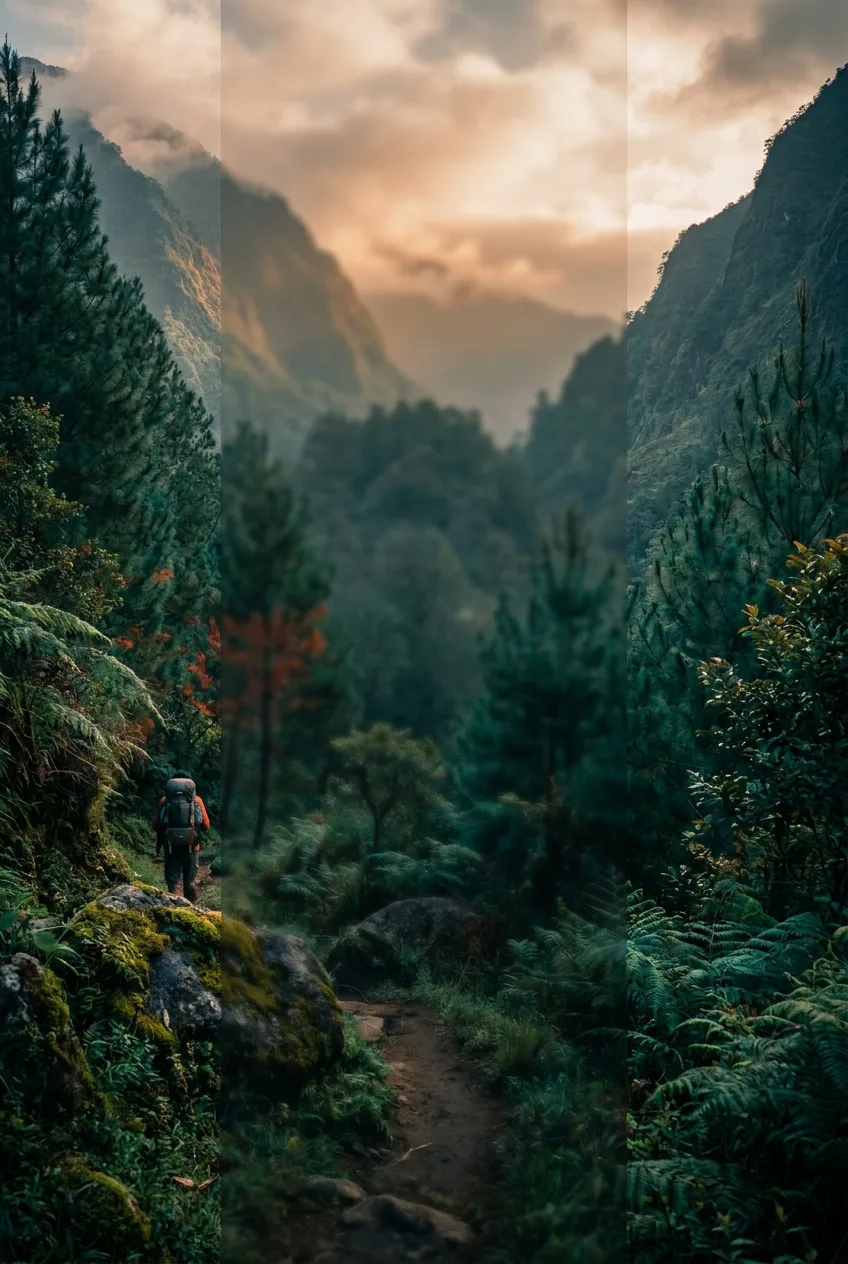
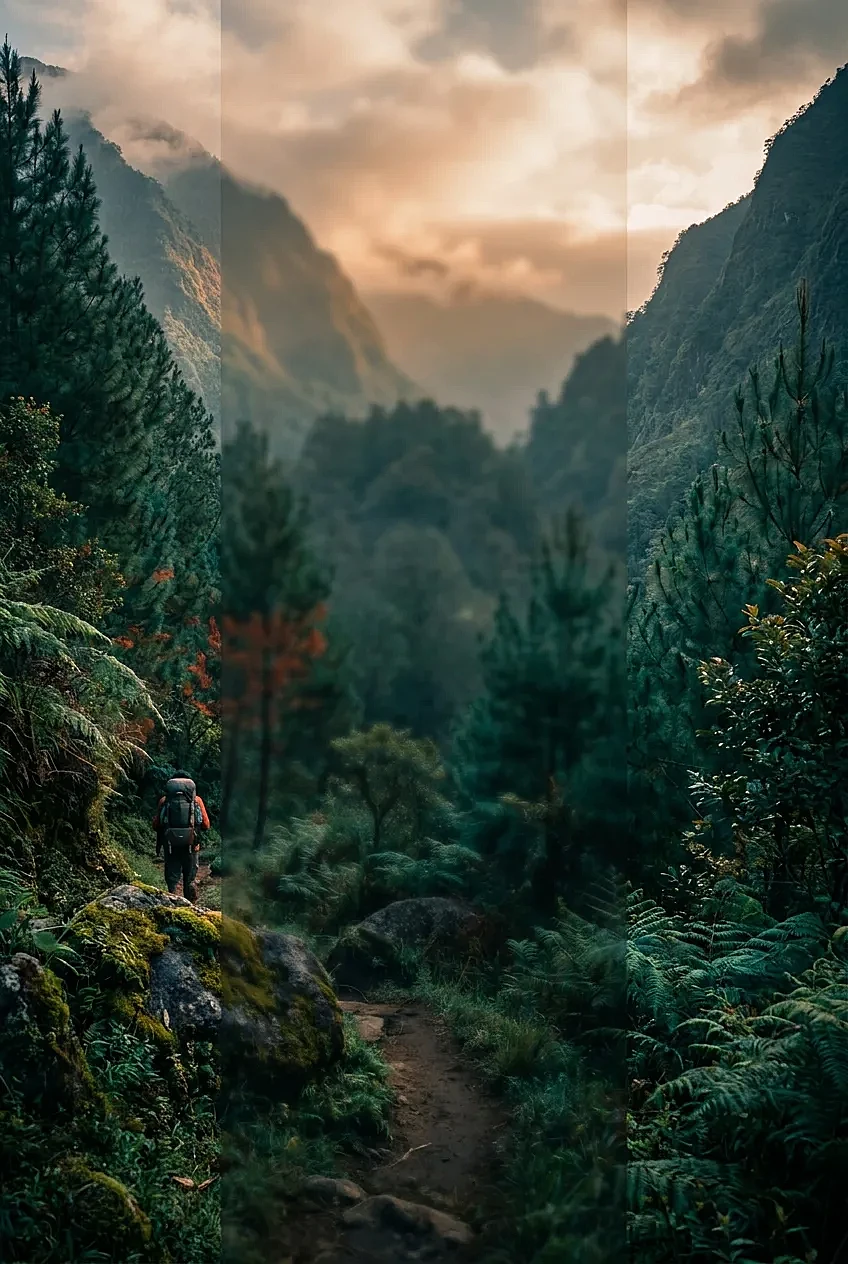
Add files via upload

diff --git a/rehat/blocks.html b/rehat/blocks.html
@@ -35,20 +35,23 @@ html,body{overflow-x:hidden}@media(max-width:760px){.app{width:100%;max-width:no
 .soundbar{position:static;justify-content:flex-start;margin:16px auto 0;width:240px}.sound{min-width:0;width:46px;height:46px;padding:0;border-radius:50%;font-size:0;display:grid;place-items:center}.sound:before{content:'🔊';font-size:19px}.sound.off:before{content:'🔇'}.adventure-art{position:relative;width:min(360px,calc(100% - 28px));height:112px;margin:14px auto 0;border-radius:12px;overflow:hidden;background:linear-gradient(180deg,#173750 0%,#254b52 48%,#122c32 49%,#0c2227 100%);box-shadow:inset 0 0 0 2px #ffffff2a,inset 0 -20px 30px #07171a88,0 5px 0 #8b2525}.adventure-art:before{content:'';position:absolute;inset:0;background:linear-gradient(145deg,transparent 0 39%,#d7eef055 40% 41%,transparent 42%),linear-gradient(35deg,transparent 0 43%,#8fd3df55 44% 45%,transparent 46%),linear-gradient(155deg,transparent 0 55%,#102d38 56% 68%,transparent 69%);clip-path:polygon(0 100%,0 53%,17% 68%,31% 39%,47% 72%,63% 48%,76% 70%,89% 42%,100% 60%,100% 100%)}.adventure-art:after{content:'♠  ♠  ♠  ♠  ♠';position:absolute;left:20px;bottom:12px;color:#a6d69b88;font-size:18px;letter-spacing:10px}.art-compass{position:absolute;right:20px;top:18px;width:44px;height:44px;border:2px solid #d8c18a99;border-radius:50%;display:grid;place-items:center;color:#f4d476;font-size:24px;box-shadow:inset 0 0 0 4px #ffffff14}.art-label{position:absolute;left:18px;top:18px;color:#f5e4b0;font:700 10px monospace;letter-spacing:.16em;text-shadow:0 1px #000}.note{margin-top:14px}@media(max-width:760px){.soundbar{width:calc(100% - 34px);margin-top:14px}.sound{width:42px;height:42px}.adventure-art{height:92px;margin-top:12px;width:calc(100% - 28px)}.art-label{top:14px}.art-compass{top:12px;right:14px;width:38px;height:38px}.note{display:none}}
 
 /* Scenic console surround: generated nature photography fills the side bays. */
-.gamecard{background-image:linear-gradient(90deg,#f4eee455,#ece4d533),url('nature-bg.webp');background-size:cover;background-position:center 48%;}.adventure-art{display:none}.soundbar{width:100%;max-width:370px;justify-content:flex-start;margin:16px auto 0}.sound{margin-left:0}@media(max-width:760px){.gamecard{background-position:center center}.soundbar{width:100%;max-width:330px;justify-content:flex-start;margin-top:14px}.sound{margin-left:0}}
+.gamecard{background-image:url('nature-bg.webp');background-size:cover;background-position:center 48%;}.adventure-art{display:none}.soundbar{width:100%;max-width:370px;justify-content:flex-start;margin:16px auto 0}.sound{margin-left:0}@media(max-width:760px){.gamecard{background-position:center center}.soundbar{width:100%;max-width:330px;justify-content:flex-start;margin-top:14px}.sound{margin-left:0}}
 
 /* Button integrity pass: every control gets a solid molded-plastic face. */
 .controls .ctrl{position:relative;z-index:10;opacity:1!important;background-color:#e5ddd1!important;background-image:radial-gradient(circle at 30% 18%,#fffdf8 0,#e9e2d8 48%,#b9aa9d 100%)!important;backdrop-filter:none!important;-webkit-backdrop-filter:none!important;border:2px solid #806d60!important;color:#3a2b26!important;text-shadow:0 1px #fff}.controls .ctrl:hover,.controls .ctrl:active{background-color:#e5ddd1!important;background-image:radial-gradient(circle at 30% 18%,#fffdf8 0,#e9e2d8 48%,#b9aa9d 100%)!important}.controls .ctrl:nth-child(5){min-width:0}
 
 /* Root-frame pass: a realistic tree-root bezel surrounds the active console. */
-.gamecard{position:relative;isolation:isolate;overflow:hidden;background-image:linear-gradient(90deg,#f4eee422,#ece4d511),url('nature-bg.webp');background-size:cover;background-position:center 48%}.root-frame{position:absolute;z-index:1;inset:0;width:100%;height:100%;object-fit:cover;pointer-events:none;opacity:.82;mix-blend-mode:multiply}.gamebar{position:relative;z-index:7}.gamecard canvas{position:relative;z-index:5}.controls{position:relative;z-index:8;grid-template-areas:'left rotate right' '. down drop'}.controls .ctrl{box-sizing:border-box;overflow:hidden;width:100%;min-width:0}.controls .ctrl:nth-child(1){grid-area:left}.controls .ctrl:nth-child(2){grid-area:rotate}.controls .ctrl:nth-child(3){grid-area:right}.controls .ctrl:nth-child(4){grid-area:down;width:100%}.controls .ctrl:nth-child(5){grid-area:drop;width:100%;min-width:0}.soundbar{position:relative;z-index:8}.board-logo{z-index:6}
+.gamecard{position:relative;isolation:isolate;overflow:hidden;background-image:url('nature-bg.webp');background-size:cover;background-position:center 48%}.root-frame{position:absolute;z-index:1;inset:0;width:100%;height:100%;object-fit:cover;pointer-events:none;opacity:.82;mix-blend-mode:multiply}.gamebar{position:relative;z-index:7}.gamecard canvas{position:relative;z-index:5}.controls{position:relative;z-index:8;grid-template-areas:'left rotate right' '. down drop'}.controls .ctrl{box-sizing:border-box;overflow:hidden;width:100%;min-width:0}.controls .ctrl:nth-child(1){grid-area:left}.controls .ctrl:nth-child(2){grid-area:rotate}.controls .ctrl:nth-child(3){grid-area:right}.controls .ctrl:nth-child(4){grid-area:down;width:100%}.controls .ctrl:nth-child(5){grid-area:drop;width:100%;min-width:0}.soundbar{position:relative;z-index:8}.board-logo{z-index:6}
 
 /* Lock the hardware control deck to a predictable 3-column console layout. */
 .controls{display:grid!important;width:370px;max-width:calc(100% - 24px);grid-template-columns:1fr 1.25fr 1fr!important;grid-template-rows:60px 60px!important;grid-template-areas:none!important;gap:12px!important}.controls .ctrl{grid-area:auto!important;display:block;width:100%!important;min-width:0!important;overflow:hidden!important;white-space:nowrap!important}.controls .ctrl:nth-child(1){grid-column:1;grid-row:1}.controls .ctrl:nth-child(2){grid-column:2;grid-row:1}.controls .ctrl:nth-child(3){grid-column:3;grid-row:1}.controls .ctrl:nth-child(4){grid-column:2;grid-row:2}.controls .ctrl:nth-child(5){grid-column:3;grid-row:2}@media(max-width:760px){.controls{width:330px;max-width:calc(100vw - 34px);grid-template-columns:1fr 1.25fr 1fr!important;grid-template-rows:54px 54px!important;gap:8px!important}}
 
 /* Corrected semantic frame: roots belong around the Tetris board, while nature covers the console body. */
-.root-frame{inset:auto;left:50%;top:72px;transform:translateX(-50%);width:300px;height:540px;object-fit:fill;opacity:.94;mix-blend-mode:normal;z-index:4}.gamecard{background-image:linear-gradient(90deg,#f4eee422,#ece4d511),url('nature-bg.webp');background-size:cover;background-position:center 48%}.gamecard canvas{z-index:5}.board-logo{z-index:6}@media(max-width:760px){.root-frame{top:68px;width:calc(100vw - 42px);height:calc((100vw - 42px)*1.49);max-width:330px;max-height:520px}}
-</style></head><body><main class="app"><a class="back" href="index.html">← Kembali ke Rehat</a><header class="top"><div class="brand"><img class="logo" src="logo-rcscbs.jpg" alt="Logo RCS.CBS HOPE"><div><div class="eyebrow">GAME 06 • RCS.CBS</div><h1>HOPE BLOCKS</h1></div></div><div class="score"><div class="pill"><b id="score">0</b><span>poin</span></div><div class="pill"><b id="level">1</b><span>level</span></div></div></header><section class="layout"><article class="gamecard"><img class="root-frame" src="root-frame.png" alt="" aria-hidden="true"><img class="board-logo" src="logo-rcscbs.jpg" alt="" aria-hidden="true"><div class="gamebar"><b>SUSUN BLOKNYA</b><small id="lines">0 garis</small></div><canvas id="game" width="240" height="480" aria-label="Papan permainan HOPE BLOCKS"></canvas><div class="controls"><button class="ctrl" data-act="left" aria-label="Geser kiri">←</button><button class="ctrl" data-act="rotate" aria-label="Putar">PUTAR</button><button class="ctrl" data-act="right" aria-label="Geser kanan">→</button><button class="ctrl wide" data-act="down">▼ Turun</button><button class="ctrl wide" data-act="drop">JATUHKAN</button></div><div class="soundbar"><button class="sound" id="soundBtn" aria-label="Nyalakan atau matikan suara">🔊</button></div><div class="adventure-art" aria-hidden="true"><span class="art-compass">✦</span><span class="art-label">JELAJAH • RAWAT • JAGA</span></div><p class="help">Keyboard: ← → geser · ↑ putar · ↓ turun · Spasi jatuhkan</p></article><aside class="artcard"><div class="hud hud-score" id="hudScore">0</div><div class="hud hud-level" id="hudLevel">1</div><div class="hud hud-lines" id="hudLines">0</div><button class="hotspot hs-hold" data-act="hold" aria-label="Hold balok"></button><button class="hotspot hs-next" data-act="next" aria-label="Lihat balok berikutnya"></button><button class="hotspot hs-rotate" data-act="rotate" aria-label="Putar balok"></button><button class="hotspot hs-left" data-act="left" aria-label="Geser kiri"></button><button class="hotspot hs-right" data-act="right" aria-label="Geser kanan"></button><button class="hotspot hs-soft" data-act="down" aria-label="Soft drop"></button><button class="hotspot hs-hard" data-act="drop" aria-label="Hard drop"></button><div class="artcopy"><img class="hero-logo" src="logo-rcscbs.jpg" alt="Logo RCS.CBS HOPE"><span class="tag">RCS.CBS HOPE</span><h2>HOPE<br><em>BLOCKS</em></h2><p class="console-sub">ARCADE TETRIS • EDITION 01</p><div class="console-readout"><span>STATUS</span><b>READY TO PLAY</b></div><div class="tips"><span>INSERT HOPE</span><span>BUILD YOUR LINE</span></div></div></aside></section><p class="note">Game tersimpan ringan di browser. Pecahkan baris, naikkan level, dan pecahkan rekor sendiri.</p></main><script>
+.root-frame{inset:auto;left:50%;top:72px;transform:translateX(-50%);width:300px;height:540px;object-fit:fill;opacity:.94;mix-blend-mode:normal;z-index:4}.gamecard{background-image:url('nature-bg.webp');background-size:cover;background-position:center 48%}.gamecard canvas{z-index:5}.board-logo{z-index:6}@media(max-width:760px){.root-frame{top:68px;width:calc(100vw - 42px);height:calc((100vw - 42px)*1.49);max-width:330px;max-height:520px}}
+
+/* Final clean nature console: no root overlay, crisp full-body wilderness background. */
+.root-frame{display:none!important}.gamecard{background-image:url('nature-bg.webp')!important;background-size:cover;background-position:center 48%;background-blend-mode:normal}
+</style></head><body><main class="app"><a class="back" href="index.html">← Kembali ke Rehat</a><header class="top"><div class="brand"><img class="logo" src="logo-rcscbs.jpg" alt="Logo RCS.CBS HOPE"><div><div class="eyebrow">GAME 06 • RCS.CBS</div><h1>HOPE BLOCKS</h1></div></div><div class="score"><div class="pill"><b id="score">0</b><span>poin</span></div><div class="pill"><b id="level">1</b><span>level</span></div></div></header><section class="layout"><article class="gamecard"><img class="board-logo" src="logo-rcscbs.jpg" alt="" aria-hidden="true"><div class="gamebar"><b>SUSUN BLOKNYA</b><small id="lines">0 garis</small></div><canvas id="game" width="240" height="480" aria-label="Papan permainan HOPE BLOCKS"></canvas><div class="controls"><button class="ctrl" data-act="left" aria-label="Geser kiri">←</button><button class="ctrl" data-act="rotate" aria-label="Putar">PUTAR</button><button class="ctrl" data-act="right" aria-label="Geser kanan">→</button><button class="ctrl wide" data-act="down">▼ Turun</button><button class="ctrl wide" data-act="drop">JATUHKAN</button></div><div class="soundbar"><button class="sound" id="soundBtn" aria-label="Nyalakan atau matikan suara">🔊</button></div><div class="adventure-art" aria-hidden="true"><span class="art-compass">✦</span><span class="art-label">JELAJAH • RAWAT • JAGA</span></div><p class="help">Keyboard: ← → geser · ↑ putar · ↓ turun · Spasi jatuhkan</p></article><aside class="artcard"><div class="hud hud-score" id="hudScore">0</div><div class="hud hud-level" id="hudLevel">1</div><div class="hud hud-lines" id="hudLines">0</div><button class="hotspot hs-hold" data-act="hold" aria-label="Hold balok"></button><button class="hotspot hs-next" data-act="next" aria-label="Lihat balok berikutnya"></button><button class="hotspot hs-rotate" data-act="rotate" aria-label="Putar balok"></button><button class="hotspot hs-left" data-act="left" aria-label="Geser kiri"></button><button class="hotspot hs-right" data-act="right" aria-label="Geser kanan"></button><button class="hotspot hs-soft" data-act="down" aria-label="Soft drop"></button><button class="hotspot hs-hard" data-act="drop" aria-label="Hard drop"></button><div class="artcopy"><img class="hero-logo" src="logo-rcscbs.jpg" alt="Logo RCS.CBS HOPE"><span class="tag">RCS.CBS HOPE</span><h2>HOPE<br><em>BLOCKS</em></h2><p class="console-sub">ARCADE TETRIS • EDITION 01</p><div class="console-readout"><span>STATUS</span><b>READY TO PLAY</b></div><div class="tips"><span>INSERT HOPE</span><span>BUILD YOUR LINE</span></div></div></aside></section><p class="note">Game tersimpan ringan di browser. Pecahkan baris, naikkan level, dan pecahkan rekor sendiri.</p></main><script>
 let soundOn=true,audioCtx;const soundBtn=document.querySelector('#soundBtn');function tone(freq=440,dur=.08,type='sine'){if(!soundOn)return;audioCtx??=new (window.AudioContext||window.webkitAudioContext)();const o=audioCtx.createOscillator(),g=audioCtx.createGain();o.type=type;o.frequency.value=freq;g.gain.setValueAtTime(.045,audioCtx.currentTime);g.gain.exponentialRampToValueAtTime(.001,audioCtx.currentTime+dur);o.connect(g).connect(audioCtx.destination);o.start();o.stop(audioCtx.currentTime+dur)}function say(text){if(!soundOn||!('speechSynthesis' in window))return;window.speechSynthesis.cancel();const u=new SpeechSynthesisUtterance(text);u.lang='id-ID';u.rate=1.12;u.pitch=1.05;u.volume=.8;window.speechSynthesis.speak(u)}soundBtn.onclick=()=>{soundOn=!soundOn;soundBtn.textContent=soundOn?'🔊':'🔇';soundBtn.classList.toggle('off',!soundOn);if(soundOn){tone(660,.08);say('Suara aktif')}};const c=document.querySelector('#game'),x=c.getContext('2d'),COLS=10,ROWS=20,S=24,colors=['#47a7cf','#f2b735','#b34bcb','#5fae65','#e56546','#477bc1','#e2a347'];let grid=Array.from({length:ROWS},()=>Array(COLS).fill(0)),piece,nextPiece,holdPiece=null,holdUsed=false,score=0,lines=0,level=1,over=false,last=0,drop=700;
 const SHAPES=[[[1,1,1,1]],[[1,1],[1,1]],[[0,1,0],[1,1,1]],[[1,0,0],[1,1,1]],[[0,0,1],[1,1,1]],[[1,1,0],[0,1,1]],[[0,1,1],[1,1,0]]];
 function syncHud(){document.querySelector('#hudScore').textContent=score;document.querySelector('#hudLevel').textContent=level;document.querySelector('#hudLines').textContent=lines}function newPiece(){const s=SHAPES[Math.floor(Math.random()*SHAPES.length)];return {m:s.map(r=>r.slice()),x:Math.floor((COLS-s[0].length)/2),y:0,color:Math.floor(Math.random()*colors.length)+1}}
